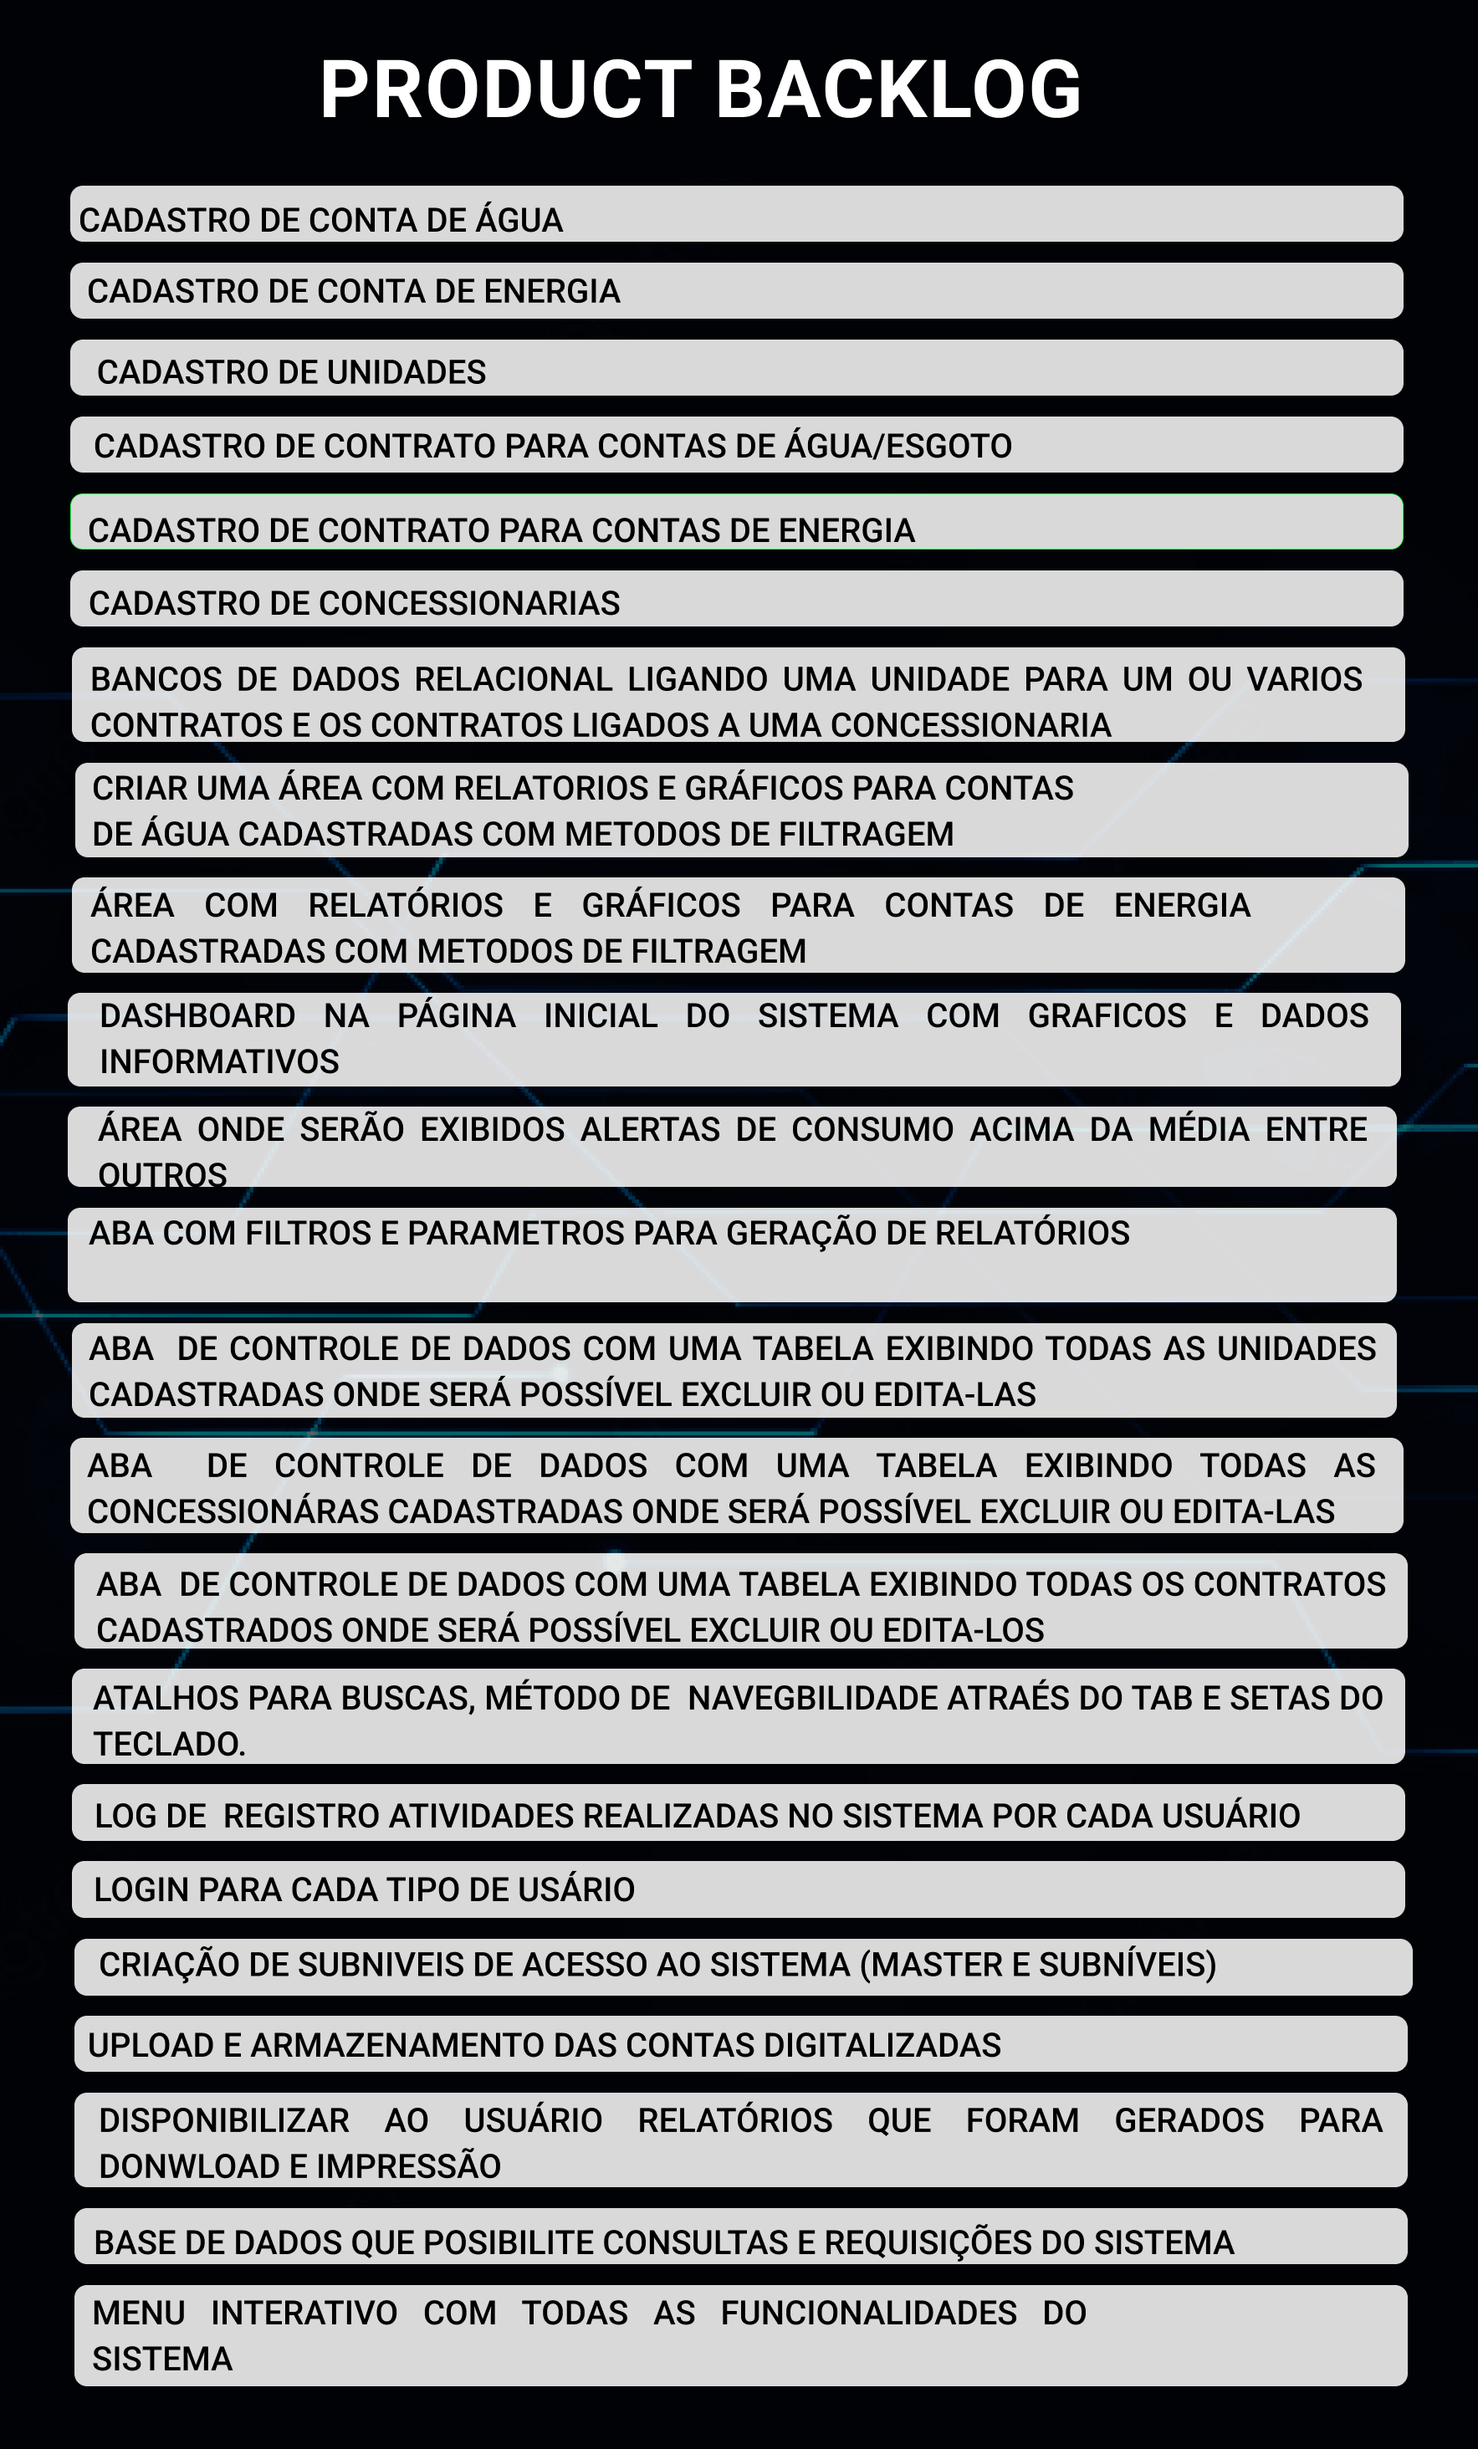
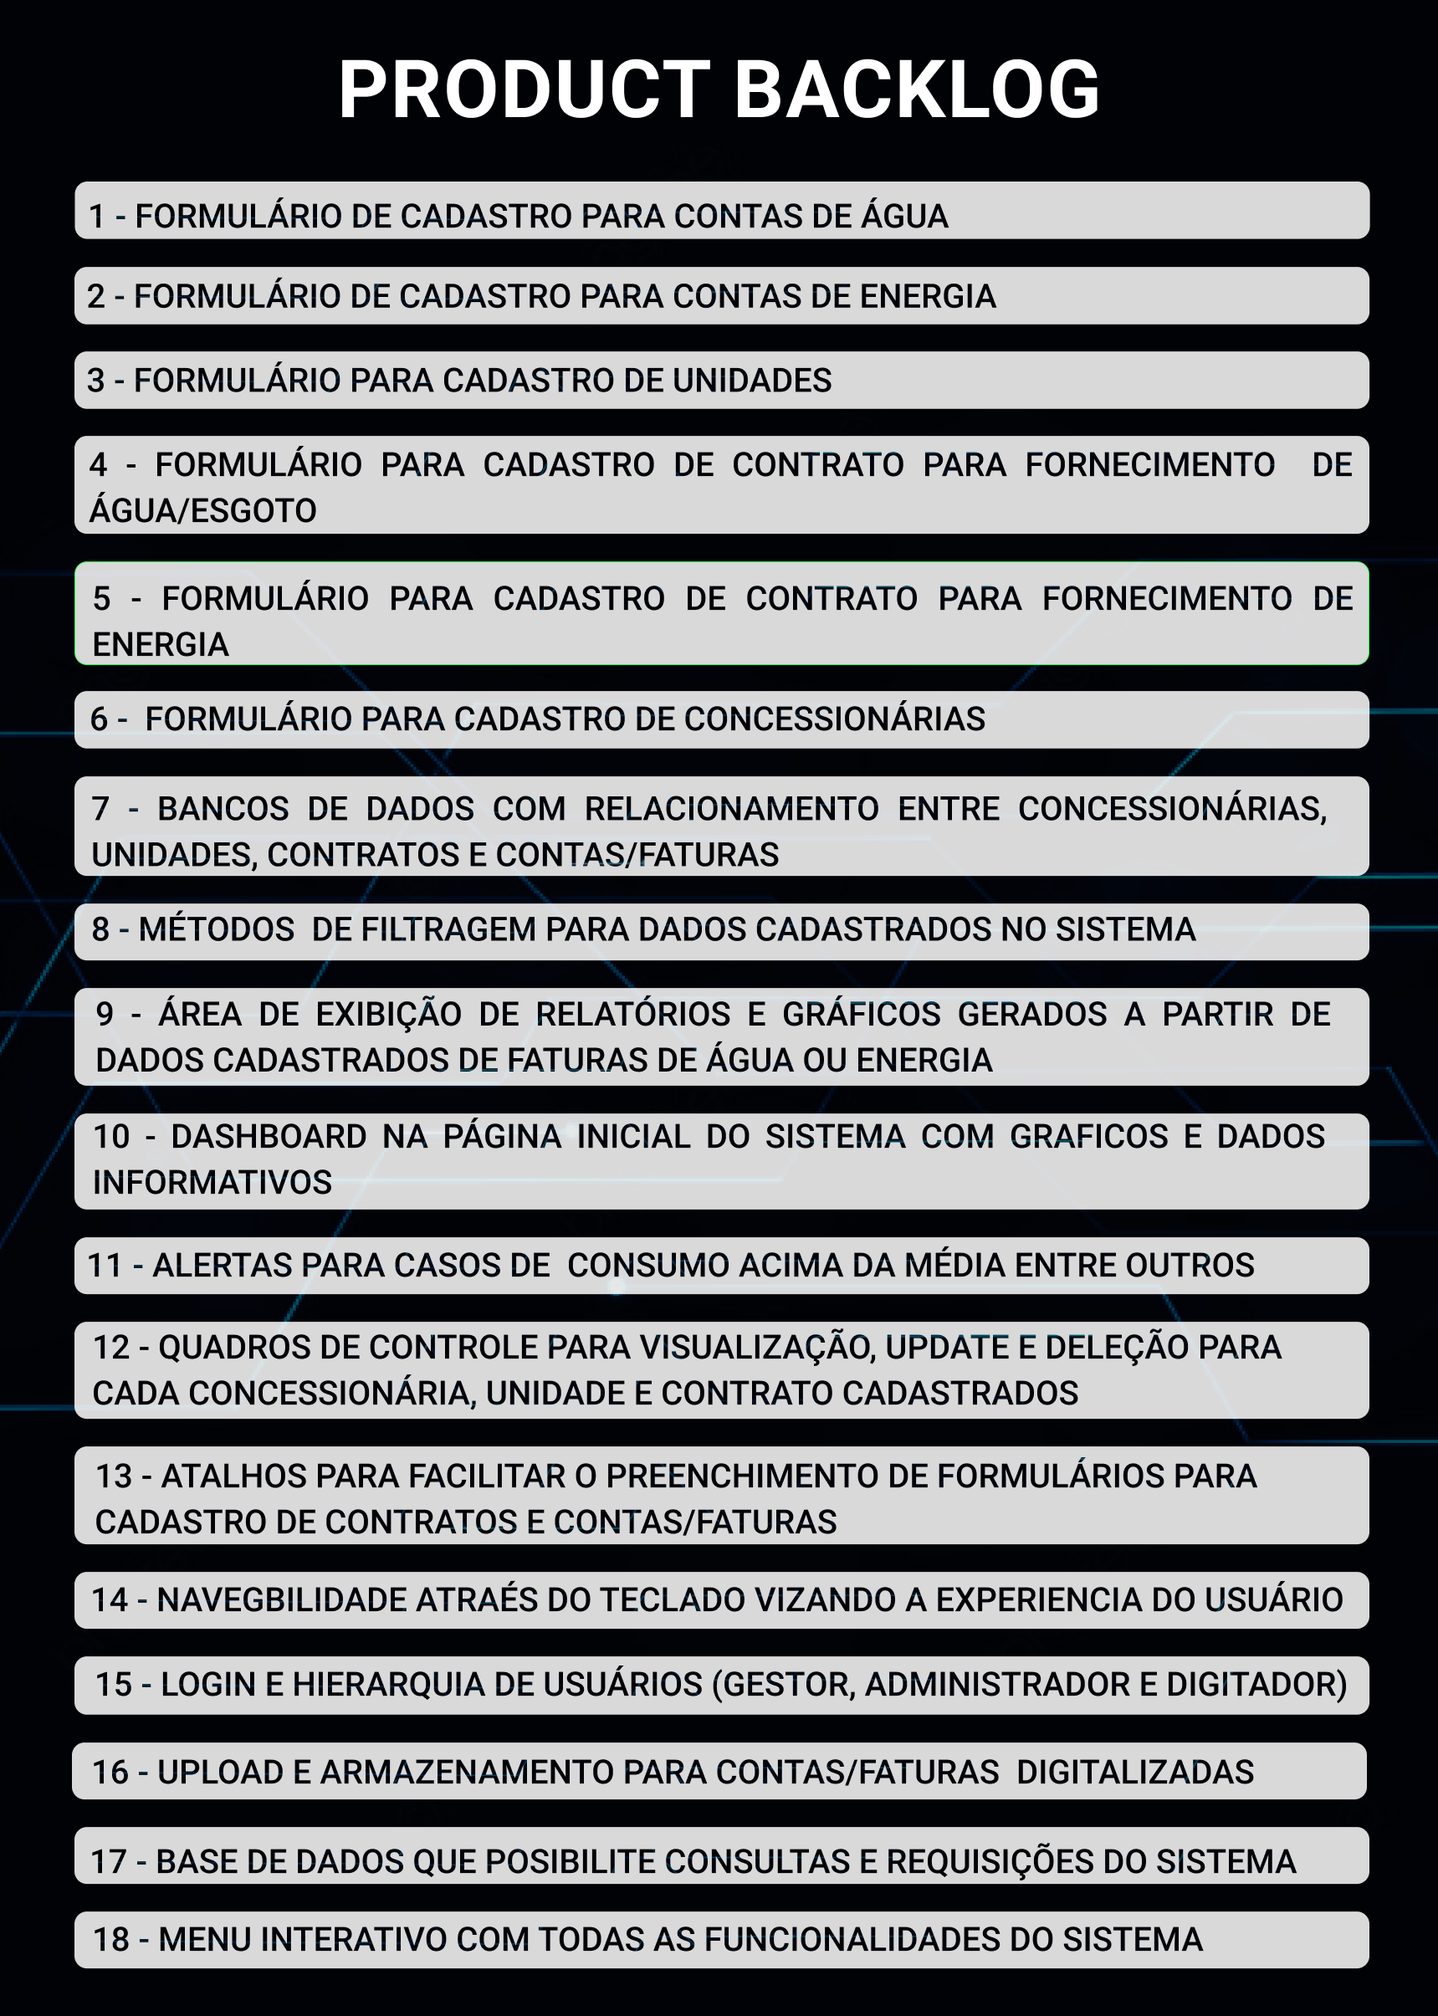
alteração mo readme principal, sprint1 e sprint2

diff --git a/README.md b/README.md
@@ -16,13 +16,21 @@
 
 <br>
 
-
 # O Projeto
 
 <h1 align="center"> 
-<img src = "./readme/framesFigma/objetivoProjeto.png"/></h1>
+<img src = "./readme/framesFigma/objetivoProjeto.png" width="350"/></h1>
 
-<br>
+<br id="product-backlog">
+
+## 📋 Product Backlog
+
+<!--add product backlog figma figma-->
+<h1 align="center">
+<img src = "./readme/framesFigma/productBacklog.png" width="300"/></h1>
+
+<br id="sprints-backlog">
+
 
 ### **Status do Projeto: Em progresso.**
 
@@ -48,7 +56,7 @@ do contrato);
 
 ### **Requisitos não funcionais**    
 
-- <img src = "./readme/grupoAPI/a_fazer.jpeg" /> Prezar pelo UX da tela de digitação das contas;
+- <img src = "./readme/grupoAPI/feito.jpeg" /> Prezar pelo UX da tela de digitação das contas;
 - <img src = "./readme/grupoAPI/feito.jpeg" /> Incluir atalhos no nos formmulários de casdastro;
 - <img src = "./readme/grupoAPI/feito.jpeg" /> Permitir navegação entre campos por TAB ou seta;
 <h1> 
@@ -57,7 +65,7 @@ do contrato);
 
 ## 📆 Cronograma das Sprints
 
-- <img src = "./readme/grupoAPI/feito.jpeg" />Kick-Off - 15/03/2022
+- <img src = "./readme/grupoAPI/feito.jpeg" />  Kick-Off - 15/03/2022
 - <img src = "./readme/grupoAPI/feito.jpeg" /> <a href="https://github.com/Grupo1API/TecSus/tree/main/readme/sprint_1">Sprint 1</a> - 25/03/2022 a 14/04/2022 
 - <img src = "./readme/grupoAPI/feito.jpeg" /> <a href="https://github.com/Grupo1API/TecSus/tree/main/readme/sprint_2">Sprint 2</a> - 04/2022 a 15/05/2022   
 - <img src = "./readme/grupoAPI/a_fazer.jpeg" /> [ Sprint 3 ]( ) - 16/05/2022 a 05/06/2022  
@@ -66,7 +74,7 @@ do contrato);
 <br>
 <!--add cronograma sprints figma-->
 <h1 align="center"> 
-<img src = "./readme/framesFigma/cronogramaSprints.png"/></h1>
+<img src = "./readme/framesFigma/cronogramaSprints.png" width="350"/></h1>
 
 <br id="tecnologias-utilizadas"> 
 
@@ -79,35 +87,9 @@ do contrato);
 
 <!--add stacks figma-->
 <h1 align="center"> 
-<img src = "./readme/framesFigma/stacksDoProjeto.png"/></h1>
+<img src = "./readme/framesFigma/stacksDoProjeto.png" width="350"/></h1>
 
 <br id="metodologia-utilizada">   
-
-## 💡 Metodologia Utilizada   
-
-- **Metodologia Ágil: SCRUM**
-<!--add scrum figma-->
-<img src = "./readme/framesFigma/metodologiaScrum.png" />
-
-<h1></h1>
-<br id="product-backlog">
-
-## 📋 Product Backlog
-
-<!--add product backlog figma figma-->
-<h1 align="center">
-<img src = "./readme/framesFigma/productBacklog.png" /></h1>
-
-<br id="sprints-backlog">
-
-## 📝 Sprints Backlog
-
-<h1 align="center"> <img src = "./readme/framesFigma/sprintsBacklogs.png"/></h1>
-
-<br id="equipe">
-
-## 👨💻 Equipe
-<!-- ![Equipe Ditial Solutions](/readme/time.gif "Apresentação Equipe Digital Solutions") -->
 
 <br>
 

diff --git a/readme/sprint_2/README.md b/readme/sprint_2/README.md
@@ -6,7 +6,7 @@ Nesta sprint mantivemos o foco na implementação da ligação entre as tabelas 
 <br>
 
 <h1 align="center"> 
-<img src = "./midias/sprint2BacklogPrioridades.png"/></h1>
+<img src = "./midias/sprint2BacklogPrioridades.png" width="300"/></h1>
 <br>
 
 ## Burndown da Sprints
@@ -32,6 +32,9 @@ Nesta sprint mantivemos o foco na implementação da ligação entre as tabelas 
 
 <h3 align="center">Atalhos para preencimento dos campos no formulário para cadastro de contrato fornecimento água</h3>
 <h1 align="center"> <img src = "./midias/contrato_agua.gif"/></h1>
+
+<h3 align="center">Demo dos atalhos de preenchimento nos campos do formulário de cadastro das contas (água e energia)</h3>
+<h1 align="center"> <img src = "./midias/atalhos.gif"/></h1>
 
 <h3 align="center">Quadros para edição e deleção de dados cadastrados</h3>
 <h1 align="center"> <img src = "./midias/quadros.gif"/></h1>

diff --git a/readme/sprint_1/README.md b/readme/sprint_1/README.md
@@ -7,7 +7,7 @@ Após o cliente aprovar o protótipo apresentado, o desenvolvimento do projeto s
 <br>
 
 <h1 align="center"> 
-<img src = "./midias/sprint1BacklogPrioridades.png"/></h1>
+<img src = "./midias/sprint1BacklogPrioridades.png" width="300"/></h1>
 <br>
 
 ## Burndown da Sprint
